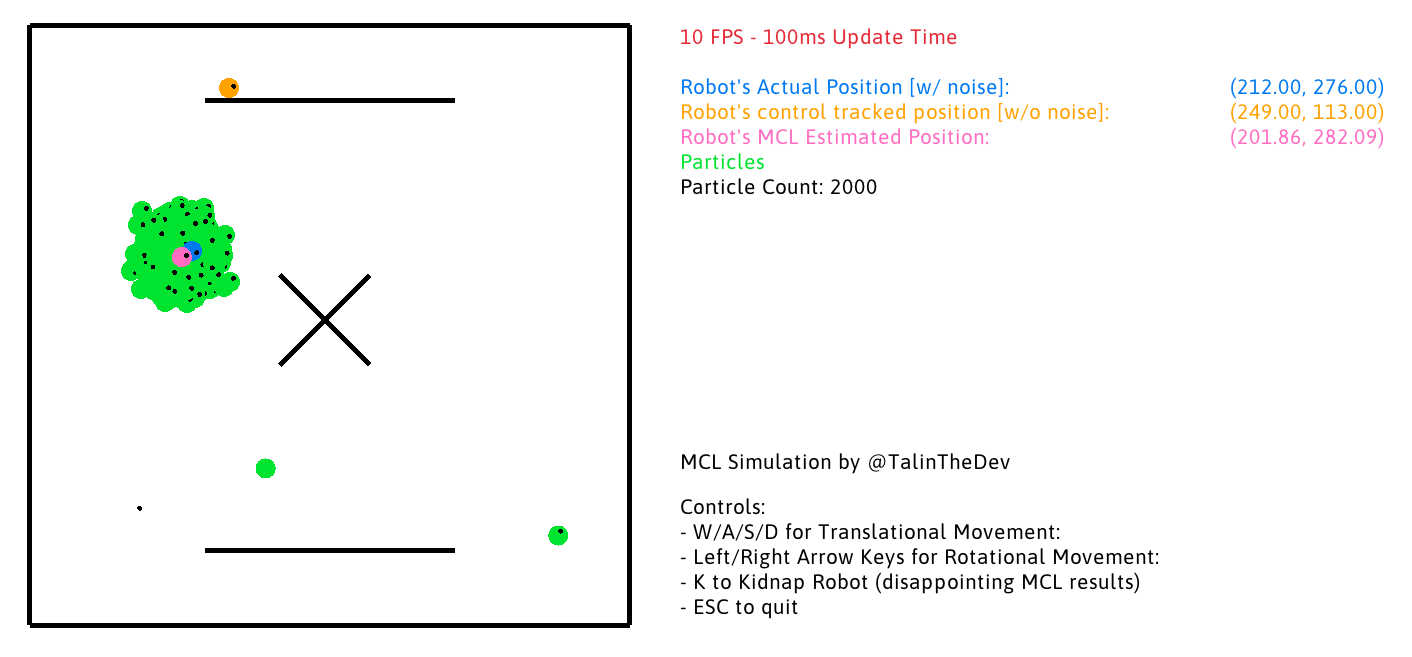
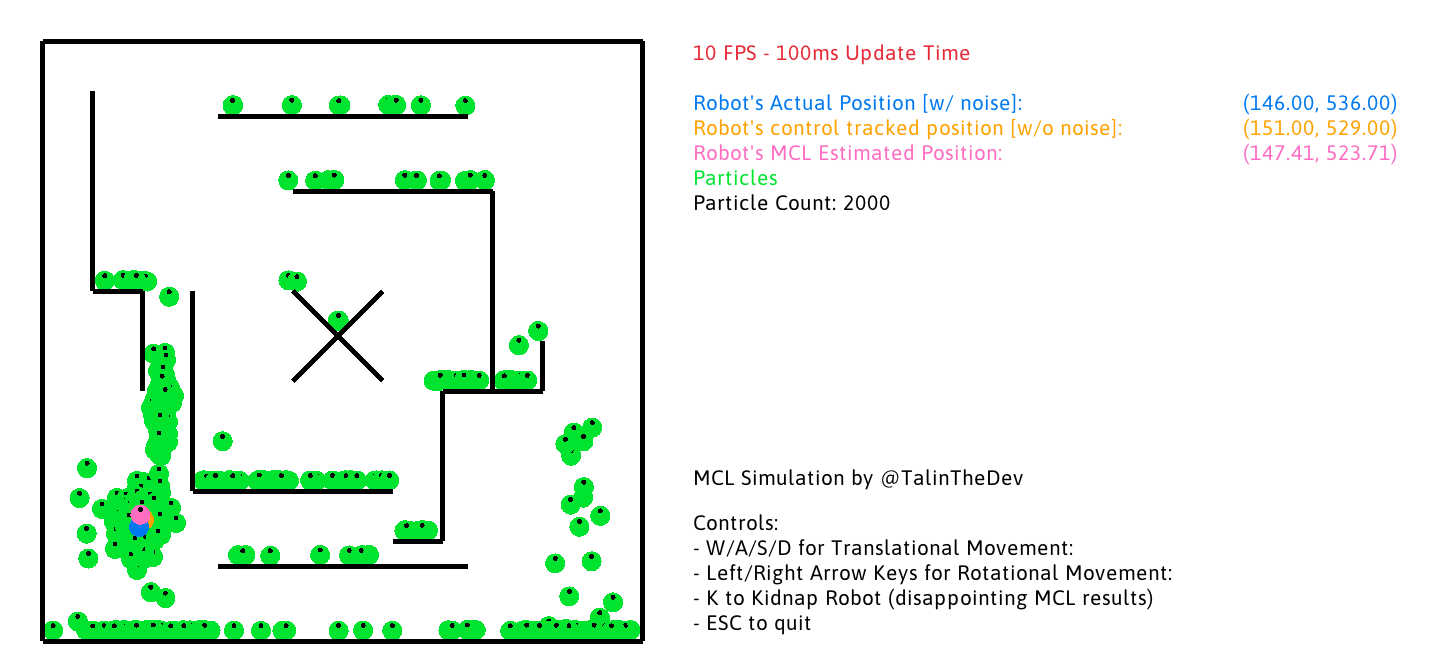
Readded other obstacles to make it work slightly better and be more of a consistent simulation that looks like it works

diff --git a/README.md b/README.md
@@ -45,6 +45,10 @@ You will be disappointed.
 I started this with the goal to eventually use MCL in my VEXv5 team (765A)'s
 bot. Don't know if we will be doing that but the field is setup to somewhat
 resemble the field for the 2025-2026 game, Push Back (no parking spots though).
+I did add some other random obstacles around the field however to help with MCL
+working because (and I realize this is an issue I will face with the VEX
+implementation), the Push Back field is very symmetrical and MCL often gets
+lost.
 
 My code, by the way, is very much not optimized because I was focusing more on
 the MCL implementation and getting this working ASAP so some parts of this are
